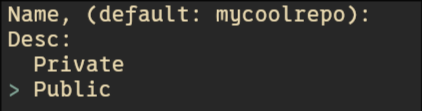
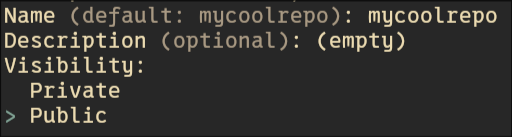
better publish

Changed region(s): [[0.0, 0.027, 0.9858, 0.9189], [0.5545, 0.0, 0.5853, 0.027], [0.1232, 0.0, 0.154, 0.027]]

diff --git a/src/publish.rs b/src/publish.rs
@@ -1,11 +1,10 @@
-use crossterm::style::Stylize;
 use std::env;
 use std::io::{self, Write};
 
 use crate::commands::run_command;
 use crossterm::event::{self, Event, KeyCode, KeyModifiers};
 use crossterm::style::{Color, Print, ResetColor, SetForegroundColor};
-use crossterm::terminal::{self, ClearType, disable_raw_mode, enable_raw_mode};
+use crossterm::terminal::{self, Clear, ClearType, disable_raw_mode, enable_raw_mode};
 use crossterm::{cursor, execute, queue};
 
 // Maybe at some point add forgejo/codeberg support if I ever move there
@@ -25,38 +24,48 @@ pub fn github(name: String, description: String, private: bool) {
     ]);
 }
 
-fn print_label(stdout: &mut io::Stdout, label: &str, input: &str) -> io::Result<()> {
-    execute!(
-        stdout,
-        cursor::MoveToColumn(0),
-        terminal::Clear(ClearType::CurrentLine),
-        Print(label),
-        Print(input)
-    )
+fn pop_until_space(input: &mut String, pointer: &mut usize) {
+    let trimmed = input.trim_end();
+
+    if let Some(index) = trimmed.rfind(' ') {
+        input.truncate(index + 1);
+        *pointer = index + 1;
+    } else {
+        input.clear();
+        *pointer = 0;
+    }
 }
 
-fn pop_until_space(input: &mut String, pointer: &mut usize) {
-    while !input.ends_with(' ') && input.len() > 0 {
-        input.pop();
-        *pointer -= 1;
-    }
+/// Only update the user input instead of redrawing the whole line
+fn print_user_input(stdout: &mut io::Stdout, input: &str, offset: u16) -> io::Result<()> {
+    execute!(
+        stdout,
+        cursor::MoveToColumn(offset),
+        Clear(ClearType::UntilNewLine),
+        Print(input)
+    )?;
+    Ok(())
 }
 
 fn draw_input(label: &str, default: &str) -> io::Result<String> {
     let mut stdout = io::stdout();
-    let custom_label = format!(
-        "{label}{}: ",
-        if default.is_empty() {
-            String::from(" (optional)").grey()
-        } else {
-            format!(" (default: {default})").grey()
-        }
-    );
-
     let mut input = String::new();
     let mut pointer: usize = 0;
 
-    print_label(&mut stdout, &custom_label, &input)?;
+    execute!(
+        stdout,
+        terminal::Clear(ClearType::CurrentLine),
+        Print(label),
+        SetForegroundColor(Color::Grey),
+        Print(if default.is_empty() {
+            String::from(" (optional)")
+        } else {
+            format!(" (default: {default})")
+        }),
+        ResetColor,
+        Print(": ")
+    )?;
+    let (offset, _) = cursor::position()?;
 
     loop {
         if let Event::Key(key) = event::read()? {
@@ -67,20 +76,19 @@ fn draw_input(label: &str, default: &str) -> io::Result<String> {
                     return Err(io::Error::new(io::ErrorKind::Other, "Keyboard Interrupt"));
                 }
                 (KeyCode::Enter, _) => {
-                    execute!(
-                        stdout,
-                        Print(if !default.is_empty() {
-                            default
-                        } else {
-                            "(empty)"
-                        }),
-                        Print("\r\n")
-                    )?;
-                    return Ok(String::from(if input.is_empty() {
-                        default
-                    } else {
-                        &input
-                    }));
+                    if input.is_empty() {
+                        execute!(
+                            stdout,
+                            if !default.is_empty() {
+                                Print(default)
+                            } else {
+                                Print("(empty)")
+                            }
+                        )?;
+                    }
+                    execute!(stdout, Print("\r\n"))?;
+
+                    return Ok(if input.is_empty() { default } else { &input }.to_owned());
                 }
                 (KeyCode::Backspace, modifier) => {
                     if input.len() == 0 {
@@ -88,23 +96,18 @@ fn draw_input(label: &str, default: &str) -> io::Result<String> {
                     }
 
                     if modifier == KeyModifiers::ALT {
-                        input.pop();
                         pop_until_space(&mut input, &mut pointer);
                     } else {
                         input.pop();
+                        pointer -= 1;
                     }
-                    pointer -= 1;
-                    print_label(&mut stdout, &custom_label, &input)?;
+                    print_user_input(&mut stdout, &input, offset)?;
                 }
                 (KeyCode::Char('e'), KeyModifiers::CONTROL) => {
-                    let (_, row) = cursor::position()?;
-                    execute!(
-                        stdout,
-                        cursor::MoveTo((custom_label.len() + input.len()) as u16, row)
-                    )?;
+                    execute!(stdout, cursor::MoveToColumn(offset + input.len() as u16))?;
                 }
                 (KeyCode::Char('a'), KeyModifiers::CONTROL) => {
-                    execute!(stdout, cursor::MoveToColumn(custom_label.len() as u16))?;
+                    execute!(stdout, cursor::MoveToColumn(offset))?;
                 }
                 (KeyCode::Left, _) => {
                     if pointer - 1 > 0 {
@@ -122,7 +125,7 @@ fn draw_input(label: &str, default: &str) -> io::Result<String> {
                     if let Some(c) = other.0.as_char() {
                         input.insert(pointer, c);
                         pointer += 1;
-                        print_label(&mut stdout, &custom_label, &input)?;
+                        print_user_input(&mut stdout, &input, offset)?;
                     }
                 }
             }
@@ -158,23 +161,33 @@ fn draw_visibility_selection() -> io::Result<bool> {
         stdout.flush()?;
 
         if let Event::Key(key) = event::read()? {
-            match key.code {
-                KeyCode::Char('q') => {
+            match (key.code, key.modifiers) {
+                (KeyCode::Char('c'), KeyModifiers::CONTROL)
+                | (KeyCode::Char('d'), KeyModifiers::CONTROL) => {
                     execute!(stdout, cursor::RestorePosition, cursor::Show)?;
                     disable_raw_mode()?;
                     return Err(io::Error::new(io::ErrorKind::Other, "Keyboard Interrupt"));
                 }
-                KeyCode::Down => {
-                    if pointer + 1 < options.len() {
-                        pointer += 1;
+                (KeyCode::Char('q'), _) | (KeyCode::Esc, _) => {
+                    execute!(stdout, cursor::RestorePosition, cursor::Show)?;
+                    disable_raw_mode()?;
+                    return Err(io::Error::new(io::ErrorKind::Other, "Keyboard Interrupt"));
+                }
+                (KeyCode::Down, _) => {
+                    pointer = if pointer + 1 < options.len() {
+                        pointer + 1
+                    } else {
+                        0
                     }
                 }
-                KeyCode::Up => {
-                    if pointer > 0 {
-                        pointer -= 1;
+                (KeyCode::Up, _) => {
+                    pointer = if pointer > 0 {
+                        pointer - 1
+                    } else {
+                        options.len() - 1
                     }
                 }
-                KeyCode::Enter => {
+                (KeyCode::Enter, _) => {
                     execute!(stdout, cursor::RestorePosition, cursor::Show)?;
                     return Ok(pointer == 0);
                 }

diff --git a/src/main.rs b/src/main.rs
@@ -5,7 +5,6 @@ mod stage;
 mod url;
 
 use clap::{Args, Parser, Subcommand};
-use crossterm::style::Stylize;
 
 #[derive(Parser)]
 #[command(
@@ -143,10 +142,7 @@ struct OpenArgs {
 
 fn validate_messages(messages: &Vec<String>) -> Result<(), String> {
     if messages.len() > 2 {
-        Err(format!(
-            "{} You can only have a name and description.",
-            "[Glitter]".red()
-        ))
+        Err(String::from("You can only have a name and description."))
     } else {
         Ok(())
     }
@@ -164,10 +160,7 @@ fn main() -> Result<(), Box<dyn std::error::Error>> {
                     git::setup_remote(&remote);
                     if let Some(PublishCommand::Publish(p_args)) = args.publish_command {
                         if !p_args.is_empty() {
-                            print!("{}", "[Glitter] ".yellow());
-                            println!(
-                                "Arguments for publish will be ignored when remote is declared"
-                            );
+                            println!("Arguments for publish ignored");
                         }
                         git::push_to_main();
                     }
@@ -180,7 +173,7 @@ fn main() -> Result<(), Box<dyn std::error::Error>> {
                             publish::github(name, desc, p_args.private)
                         } else {
                             let (name, desc, private) = publish::draw().unwrap_or_else(|e| {
-                                eprint!("{} Error: {e}", "[Glitter]".red());
+                                eprint!("Error: {e}");
                                 std::process::exit(1);
                             });
                             publish::github(name, desc, private);
@@ -214,7 +207,7 @@ fn main() -> Result<(), Box<dyn std::error::Error>> {
                 }
             } else {
                 stage::draw().unwrap_or_else(|e| {
-                    eprint!("{} Error: {e}", "[Glitter]".red());
+                    eprint!("Error: {e}");
                     std::process::exit(1);
                 });
             }

diff --git a/README.md b/README.md
@@ -73,7 +73,7 @@ glitter open
 
 ### Linux
 
-On `/usr/local/bin/glitter`
+On `/usr/local/bin/`
 
 ```bash
 sudo make install